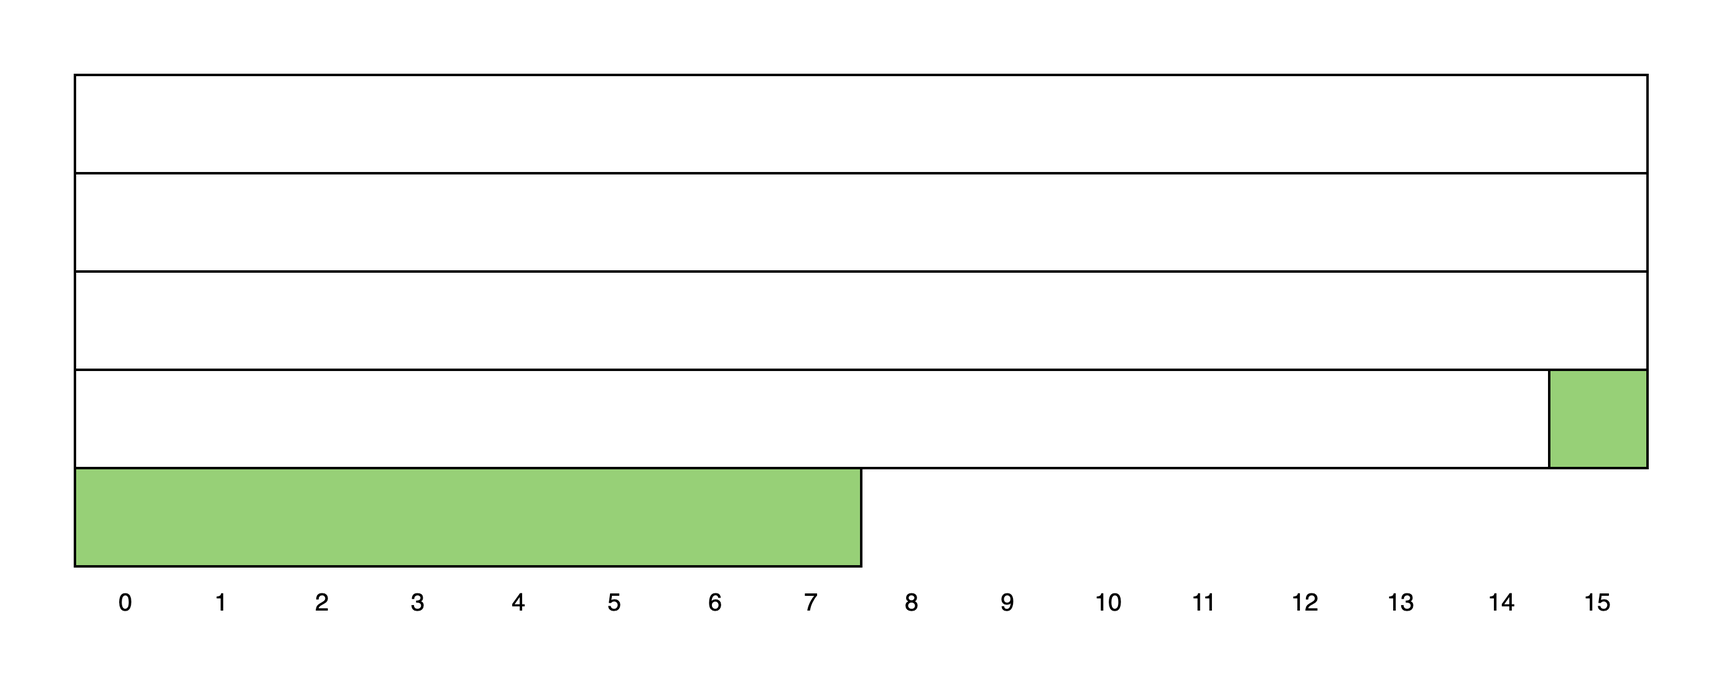
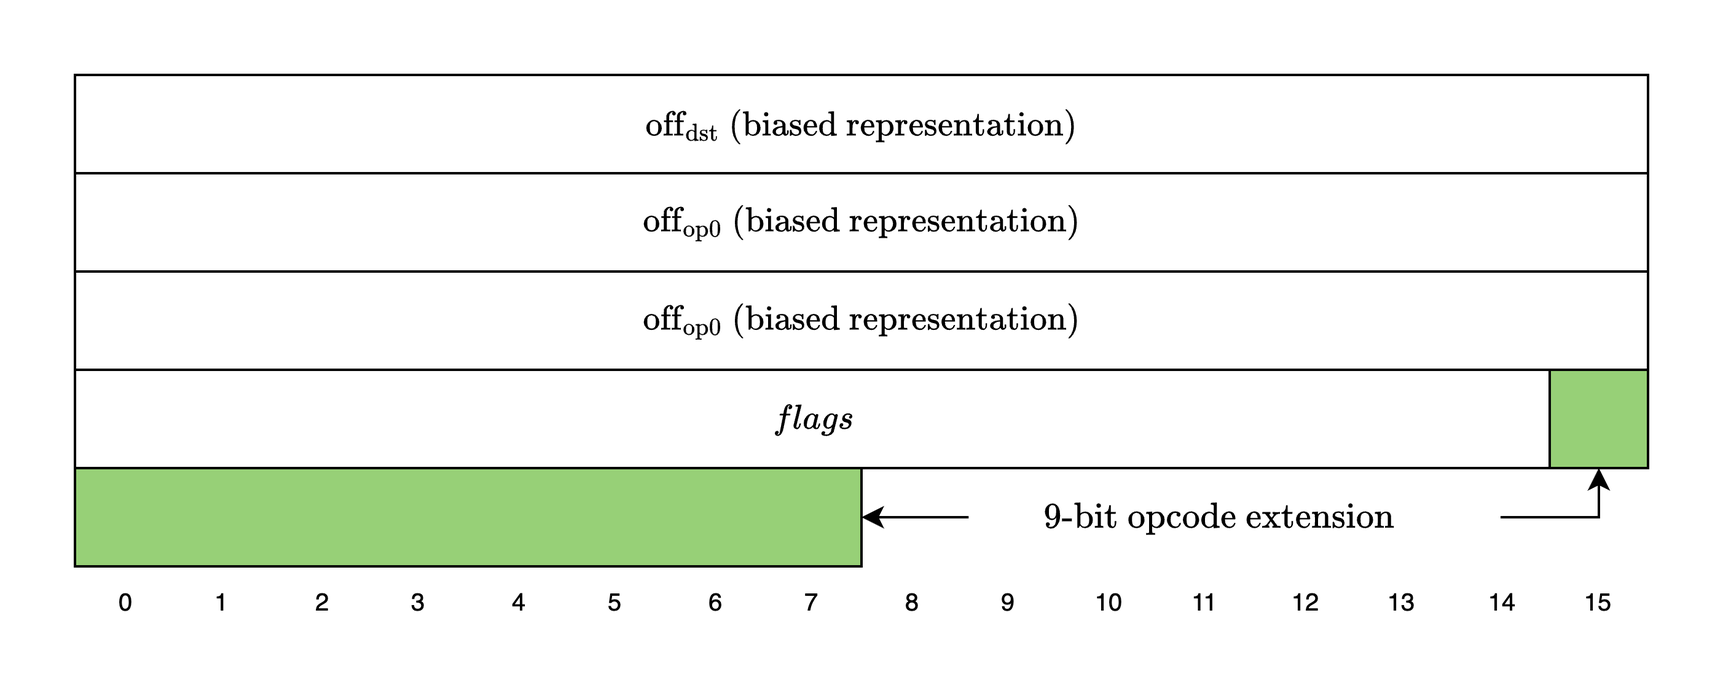
feat: add ADD Opcode walkthrough

diff --git a/src/cairo-air/main-components/index.md b/src/cairo-air/main-components/index.md
@@ -3,64 +3,80 @@
 Now that we have a basic understanding of how Cairo works and the basic building blocks that are used to build the Cairo AIR, let's take a look at the main components of the Cairo AIR.
 
 ```admonish
-For readers who are unfamiliar with the concepts of components and lookups, we suggest going over [this section](../../air-development/components/index.md) of the book.
+For readers who are unfamiliar with the concepts of components and lookups, we suggest going over the [Components](../../air-development/components/index.md) section of the book.
 ```
 
 ## Fetch, Decode, Execute
 
-Cairo follows the common CPU architecture of fetching, decoding, and executing an instruction in a single CPU step. Thus, to prove the correctness of the execution of a Cairo program, the Cairo AIR can write the results of fetching, decoding, and executing an instruction at every CPU step into a trace and prove that the constraints over the trace are consistent with the semantics of Cairo.
+Cairo follows the common CPU architecture of fetching, decoding, and executing an instruction in a single CPU step. Below is a high-level diagram of what a single CPU step looks like in Cairo.
 
 <figure id="fig-cairo-air-fetch-decode-execute" style="text-align: center;">
     <img src="./fetch-decode-execute.png" width="100%" />
     <figcaption><center><span style="font-size: 0.9em">Figure 1: A single CPU step in Cairo</span></center></figcaption>
 </figure>
 
+Since we need to prove the correctness of all CPU steps, the Cairo AIR will write the results of fetching, decoding, and executing an instruction at every CPU step into a trace and prove that the constraints over the trace are done correctly, i.e. consistent with the semantics of Cairo.
+
 Let's keep this in mind while we go over the main components of the Cairo AIR.
 
-## Memory Component
+## 1. Memory Component
 
 The first component we need is a `Memory` component, which implements the non-deterministic read-only memory model of Cairo.
 
 In Cairo AIR, instead of mapping the memory address to a value directly, we first map the `address` to an `id` and then map the `id` to a `value`. This is done to classify the memory values into 2 groups: `Small` and `Big`, where `Small` values are 72-bit integers and `Big` values are 252-bit integers. As many memory values do not exceed the `Small` size, this allows us to save cost on unnecessary padding.
 
-As a result, the `Memory` component is actually 2 components, `MemoryAddressToId` and `MemoryIdToValue`.
+As a result, the `Memory` component is actually 2 components: `MemoryAddressToId` and `MemoryIdToValue`.
 
-The constraint for the `Memory` component is as follows:
+The constraints for the `MemoryAddressToId` and `MemoryIdToValue` components are as follows:
 
 1. An `address` must appear once and only once in the `MemoryAddressToId` component
-2. Each `address` is mapped to a unique `id`
+2. Each `(address, id, value)` tuple must be unique
 
-[TODO: revisit this]
+The first constraint is implemented by using a preprocessed column that contains the sequence of numbers `[0, MAX_ADDRESS)` and using this as the address values (in the actual code, memory address starts at 1, so we need to add 1 to the sequence column).
 
-The way the first constraint is implemented is by using a preprocessed column that contains the sequence of numbers `[0, MAX_ADDRESS)` and using this as the address values (in the actual code, memory address starts at 1, so we need to add 1 to the sequence).
+The second constraint is guaranteed because the `address` value is always unique.
 
-The second constraint works in a similar way. An `id` is a 31-bit integer that is incremented by 1 from 0 whenever there is a unique memory access. For example, if the addresses `[5, 1523, 142]` were accessed in that order, the id for those addresses will be `(5, 0)`, `(1523, 1)`, and `(142, 2)`. In case the value of that address is a `Big` value, the MSB of the 31-bit integer is switched to 1. Since the `id` also uses the sequence of values `[0, NUM_SMALL_VALUES_ACCESSED)` and `[2^30, NUM_BIG_VALUES_ACCESSED)`, we can use the preprocessed column as the `id` values.
+```admonish
+A short explainer on how the `id` value is computed:
 
-## VerifyInstruction Component
+The `id` value is a 31-bit integer that is incremented by 1 from 0 whenever there is a unique memory access. For example, if the addresses `[5, 1523, 142]` were accessed in that order, the id for those addresses will be `(5, 0)`, `(1523, 1)`, and `(142, 2)`.
 
-The `VerifyInstruction` component is responsible for accessing the instruction from the `Memory` component and decomposing the retrieved value. As mentioned in the [Felt252 to M31](../basic-building-blocks/index.md#felt252-to-m31) section, a 252-bit integer is stored as 28 9-bit limbs, so we need to decompose the limbs and concatenate them to get the values we need. For example, in order to get the 3 16-bit offset values, we need to decompose the first 6 limbs into `[9, [7, 2], [9], [5, 4], [9], [3, 6]]` and concatenate them as the following: `[[9, 7], [2, 9, 5], [4, 9, 3]]`. Then, the remaining `6` and the next limb will correspond to the 15-bit flags, and the next (8th) limb will be the opcode extension value. At the end, we will have decomposed the instruction value into 3 16-bit offsets, 2 chunks of flags, and a 9-bit opcode extension.
+Since an `id` value needs to include information as to whether the corresponding `value` is `Small` or `Big`, we use the MSB as a flag (0 for `Small` and 1 for `Big`). Thus, an `id` value that corresponds to a `Small` value can occupy the space `[0, 2^30)`, while an `id` value that corresponds to a `Big` value can occupy the space `[2^30, 2^31)`.
 
-Note that the decomposition will be constrained by range-checking that each of the integers in their corresponding range.
+In reality, the size of each table will be `[0, NUM_SMALL_VALUES_ACCESSED)` and `[2^30, 2^30 + NUM_BIG_VALUES_ACCESSED)`, where `NUM_SMALL_VALUES_ACCESSED` and `NUM_BIG_VALUES_ACCESSED` are values that are provided by the prover. To make sure that the `id` values are created correctly, we can use the preprocessed column as the `id` values.
+```
 
-## Opcode Component
+## 2. VerifyInstruction Component
+
+The `VerifyInstruction` component is responsible for accessing the instruction from the `Memory` component and decomposing the retrieved value. As mentioned in the [Felt252 to M31](../basic-building-blocks/index.md#felt252-to-m31) section, a 252-bit integer is stored as 28 9-bit limbs, so we need to decompose the limbs and concatenate them to get the values we need. For example, in order to get the 3 16-bit offset values, we need to decompose the first 6 limbs into `[9, [7, 2], [9], [5, 4], [9], [3, 6]]` and concatenate them as the following: `[[9, 7], [2, 9, 5], [4, 9, 3]]`. Then, the remaining 6-bit value and the next limb will correspond to the 15-bit flags, and the next (8th) limb will be the opcode extension value. The other 20 limbs should all be zeros. At the end, we will have decomposed the instruction value into 3 16-bit offsets, 2 chunks of flags, and a 9-bit opcode extension.
+
+Note that the decomposition will be constrained by range-checking that each of the integers are within their corresponding range.
+
+## 3. Opcode Component
 
 Since every Cairo instruction can be mapped to a specific `Opcode`, we can check that a Cairo instruction is executed by checking that the corresponding `Opcode` component was executed correctly. You can think of the `Opcode` component as the main component that uses the `VerifyInstruction` and `Memory` components.
 
 We define a single `Opcode` component for each predefined opcode and also a `GenericOpcode` component, which will be used for all instructions that do not map to any of the predefined opcodes.
 
-The following is a list of constraints that the `VerifyInstruction` component needs to satisfy:
+The following is a list of constraints that the `Opcode` component needs to verify:
 
-1. verifies that the offsets and flag values are correct using the `VerifyInstruction` component.
-2. verifies that the instruction is correctly mapped to the current `Opcode` component using the flags.
-3. verifies that the operand values `op0`, `op1`, and `dst` computed with the registers and the offsets are correct using the `Memory` component.
-4. verifies that the operation for the current `Opcode` component is done correctly.
-5. verifies that the state transition of the 3 registers (`pc`, `ap`, `fp`) is done correctly using the flags.
+1. the offsets and flag values are correct using the `VerifyInstruction` component.
+2. the instruction is correctly mapped to the current `Opcode` component using the flags.
+3. the operand values `op0`, `op1`, and `dst` computed with the registers and the offsets are correct using the `Memory` component.
+4. the operation for the current `Opcode` component is done correctly.
+5. the state transition of the 3 registers (`pc`, `ap`, `fp`) is done correctly using the flags.
 
 Of these constraints, the numbers 2 and 4 are self-contained, as in they do not require any other components to be verified. We will explore how the remaining 3 are verified using lookups between the different components.
 
 ## Bringing It All Together
 
-The following figure shows how each component is connected to each other using lookups. If we look at the right-hand side first, we can see that this side shows the main components of the Cairo AIR. The boxes in the components correspond to lookups added to each component and the boxes with the same fill color correspond to lookups to the same values. Lookups that are added to the claimed sum have blue edges and the ones that are subtracted from the claimed sum have red edges. On the left-hand side, we can see lookups that that the prover provides as part of the proof and therefore the verifier can compute the lookup values themselves and add to the total sum. The ultimate goal is to make the sum of all the lookups to equal to zero.
+The following figure shows how each of the main components are connected to each other using lookups.
+
+If we look at the right-hand side first, we can see that this side shows the main components of the Cairo AIR. The boxes in each component correspond to lookups in each component and the boxes with the same fill color correspond to lookups to the same values. Also, some lookups are yielded (i.e. subtracted), while others are used (i.e. added), and the ones that are yielded have red edges, while the ones that are used have blue edges.
+
+On the left-hand side, we can see lookups that are computed directly by the verifier from data provided by the prover as part of the proof.
+
+Each of the components will have a **claimed sum** value that corresponds to the sum of all the lookups in the component. These claimed sums will be provided by the prover as part of the proof and the verifier will add them together along with the lookups on the left-hand side. If the total sum is zero, the verifier will be convinced that the proof is valid.
 
 <figure id="fig-cairo-air-main-components" style="text-align: center;">
     <img src="./main-components.png" width="100%" />
@@ -69,14 +85,20 @@ The following figure shows how each component is connected to each other using l
 
 ### Memory Lookups
 
-The memory lookups correspond to looking up the `(address, id)` and `(id, value)` pairs. In the `Memory` component, each of the lookups are multiplied with a witness value `mult`, which indicates the amount of times each memory address was accessed. Since the memory accesses are **added** to the total sum and the same amount is **subtracted** from the total sum in the `Memory` component, the total sum for memory lookups should equal zero.
+The memory lookups correspond to looking up the `(address, id)` and `(id, value)` pairs. In the `Memory` component, each of the lookups are multiplied with a witness value `mult`, which indicates the amount of times each memory address was accessed. Since the memory accesses are added to the total sum and the same amount is subtracted from the total sum in the `Memory` component, the total sum for memory lookups should equal zero.
 
-Note that the verifier also adds the lookups for the Cairo program, which is necessary to ensure that the correct program is actually stored in memory and is properly executed.
+Note that the verifier also adds lookups for the Cairo program, which is necessary to ensure that the correct program is actually stored in memory and is properly executed.
 
 ### Instruction Lookups
 
-Once the `VerifyInstruction` component retrieves the instruction value using the `(pc_addr, pc_id)` and `(pc_id, pc_val)` lookups, it subtracts the lookup of the tuple `(pc, dst_off, op0_off, op1_off, flags1, flags2, opcode_extension)`, which are the decomposed values of the instruction. The reason this lookup also has a `mult` witness is because the `VerifyInstruction` component has a single row for each unique `pc` value. Thus, if the same `pc` value is invoked multiple times throughout the program, the tuple should be added multiple times to the total sum.
+Once the `VerifyInstruction` component retrieves the instruction value using the `(pc_addr, pc_id)` and `(pc_id, pc_val)` lookups, it subtracts the lookup of the tuple `(pc, dst_off, op0_off, op1_off, flags1, flags2, opcode_extension)`, which are the decomposed values of the instruction. The reason this lookup also has a `mult` witness is because the `VerifyInstruction` component has a single row for each unique `pc` value (i.e. the Cairo instruction stored at the `pc` address). Thus, the same `pc` value can be invoked multiple times throughout the program, and the `mult` value represents the number of times the same `pc` value is invoked.
+
+Since the same tuple lookup is added to the total sum whenever the `Opcode` component uses the same instruction, the total sum for instruction lookups should equal zero.
 
 ### Register Lookups
 
-🚧
+After computing over the operands, a Cairo instruction updates the register values based on the values in the flags. In an `Opcode` component, this update logic is verified using the columns `pc`, `ap`, `fp`, `new_pc`, `new_ap`, `new_fp` and constraining the values with the flags.
+
+In addition to checking that each state transition is done correctly, we also need to make sure that the initial register values (i.e. before running the program) and the final register values (i.e. after running the program) satisfy the Cairo semantics. For example, the final pc must point to an instruction that runs the `JUMPREL 0` opcode, which is an infinite loop (you can check the rest of the semantics enforced [here](https://github.com/starkware-libs/stwo-cairo/blob/95019d029fdd164091f9d17a12cb9288215fb9c3/stwo_cairo_verifier/crates/cairo_air/src/lib.cairo#L264)).
+
+Once we have verified that the initial and final register values are correct and each state transition is done correctly, we do the final check that the register values are all connected together, as in the register values used by the second instruction is the same as the new register values of the first instruction and so on. We check this by adding the lookup of the `(pc, ap, fp)` tuple and subtracting the lookup of the `(new_pc, new_ap, new_fp)` tuple for each `Opcode` row. This way, when add up all the lookups, the total sum for register lookups should be equal to `(init_pc, init_ap, init_fp) - (final_pc, final_ap, final_fp)`. Thus, the verifier can compute the lookups of the initial and final register values themselves, then subtract the first and add the second, and check that the total sum is zero.

diff --git a/src/cairo-air/cairo/index.md b/src/cairo-air/cairo/index.md
@@ -1,28 +1,28 @@
 # Cairo
 
-Let's start by understanding how Cairo works. If you would like to learn more formally about Cairo, you can refer to the original [Cairo paper](https://eprint.iacr.org/2021/1063.pdf).
+```admonish
+This is an informal overview of Cairo. For a more formal explanation, please refer to the original [Cairo paper](https://eprint.iacr.org/2021/1063.pdf).
+```
 
-Essentially, Cairo is a CPU architecture that is Turing-complete and is specifically designed so that it can also be used to create efficient proofs of execution using STARKs. In particular, Cairo uses the read-only memory model instead of the more common read-write memory model and only uses a relatively small number of registers.
+Let's start by understanding how Cairo works. Essentially, Cairo is a CPU architecture that is Turing-complete and is specifically designed so that it can also be used to create efficient proofs of execution using STARKs. In particular, Cairo uses the read-only memory model instead of the more common read-write memory model and does not use any general-purpose registers.
 
 ## Non-Deterministic Read-Only Memory
 
-A read-only memory model is a memory model where each address in the memory can only have a single value throughout the execution of the program. This is in contrast to the more common read-write memory model where an address can have multiple values at different points in time.
+A read-only memory model is a memory model where each address in the memory can only have a single value throughout the execution of the program. This is in contrast to the more common read-write memory model where an address can have multiple values at different points during the execution of the program.
 
-The memory is also non-deterministic, which means that the prover provides the values of the memory cells as a witness and does not provide any additional constraints.
+The memory is also non-deterministic, which means that the prover provides the values of the memory cells as witness values and they do not need to be constrained other than that each address can only have a single value throughout the execution of the program.
 
 ## Registers
 
-In physical CPUs, accessing the memory is expensive compared to accessing registers due to physical proximity. This is why instructions typically operate over registers rather than directly over the memory cells. Since accessing the memory and accessing registers is the same in Cairo, however, Cairo instructions operate directly over memory cells. Thus, the 3 registers used in Cairo do not store arbitrary values but rather pointers to the memory cells:
+In physical CPUs, accessing the memory is expensive compared to accessing registers due to physical proximity. This is why instructions typically operate over registers rather than directly over the memory cells. Since accessing the memory and accessing registers is the same in Cairo, however, Cairo instructions operate directly over memory cells. Thus, the 3 registers used in Cairo are not used to store instructions or operand values like physical CPUs, but rather pointers to the memory cells where the instructions and operands are stored:
 
 - `pc` is the **program counter**, which points to the current Cairo instruction
 - `ap` is the **allocation pointer**, which points to the current available memory address
 - `fp` is the **frame pointer**, which points to the current frame in the "call stack"
 
-[TODO: add a simple example]
-
 ## Cairo Instructions
 
-Let's see what a Cairo instruction looks like.
+Let's now see what a Cairo instruction looks like.
 
 <figure id="fig-cairo-instruction" style="text-align: center;">
     <img src="./cairo-instruction.png" width="100%" />
@@ -31,26 +31,32 @@ Let's see what a Cairo instruction looks like.
 
 As the figure above from the [Cairo paper](https://eprint.iacr.org/2021/1063.pdf) shows, an instruction is made up of 64 bits, where the first 3 16-bit integers are signed offsets to the 3 operands `dst`, `op0`, and `op1`.
 
-The next 15 bits are flags, where the `dst_reg` and `op0_reg` indicates whether to use the `ap` or the `fp` register value as the base value for the `dst` and the `op0` operands, respectively. The `op1_src` flag support 4 different values as the base values for the `op1` operand: `op0`, `pc`, `fp`, and `ap`. The `res_logic` flag indicates how to compute the operands: `op1`, `op0 + op1`, or `op0 * op1`. The `pc_update` and `ap_update` flags show how to update the `pc` and `ap` registers, respectively, after computing the operands and the `opcode` flag indicates whether this instruction belongs to a predefined opcode (e.g. `CALL`, `RET`, `ASSERT_EQ`) or not and also defines how the `ap` and `fp` registers should be updated.
+The next 15 bits are flags, where the `dst_reg` and `op0_reg` 1-bit flags indicate whether to use the `ap` or the `fp` register value as the base value for the `dst` and the `op0` operands. The `op1_src` flag supports a wider range of base values for the `op1` operand: `op0`, `pc`, `fp`, and `ap`. The `res_logic` flag indicates how to compute the `res` operand: `op1`, `op0 + op1`, or `op0 * op1`. The `pc_update` and `ap_update` flags show how to update the `pc` and `ap` registers after computing the operands and the `opcode` flag indicates whether this instruction belongs to a predefined opcode (e.g. `CALL`, `RET`, `ASSERT_EQ`) or not and also defines how the `ap` and `fp` registers should be updated.
 
-Finally the last bit is fixed to 0, but as we will see later, this design is modified in the current version of Cairo to support opcode extensions.
+```admonish
+For a more detailed explanation of the flags, please refer to Section 4.5 of the [Cairo paper](https://eprint.iacr.org/2021/1063.pdf).
+```
 
-[TODO: add a simple example]
+Finally the last bit is fixed to 0, but as we will see in the next section, this design is modified in the current version of Cairo to support opcode extensions.
 
 ### Opcodes and Opcode Extensions
 
-In Cairo, an opcode refers to what the instruction should do. Since there is a strict set of constraints that an instruction should follow, every instruction can be seen as a _generic_ opcode, but Cairo also defines specific opcodes for commonly used functions (e.g. `ADD`, `MUL`, `JUMP`, `CALL`, etc).
+In Cairo, an **opcode** refers to what the instruction should do. Cairo defines a set of common CPU operations as specific opcodes (e.g. `ADD`, `MUL`, `JUMP`, `CALL`), but for Stwo, it also defines a new set of opcodes that are used to improve the performance of heavy computation such as Blake2s hash and QM31 addition and multiplication.
 
-In addition to the opcodes defined in the Cairo paper, however, Cairo now also defines a new set of opcodes using **opcode extension**. As you can see in the figure below, this is done by extending the size of an instruction from 64 bits to 72 bits and using the value of the last 9 bits.
+Since the current 64-bit instruction structure is not flexible enough to support this, Cairo now extends the instruction size to 72 bits and uses the last 9 bits as the **opcode extension** value.
 
 <figure id="fig-opcode-extension" style="text-align: center;">
     <img src="./opcode-extension.png" width="100%" />
-    <figcaption><center><span style="font-size: 0.9em">Figure 2: Opcode extension bits</span></center></figcaption>
+    <figcaption><center><span style="font-size: 0.9em">Figure 2: New instruction format with opcode extension</span></center></figcaption>
 </figure>
 
-In the previous section, we mentioned that the last bit of a Cairo instruction was fixed to 0, but this is no longer the case. If the value of the opcode extension is 0, then we use the original set of opcodes, but if it is not, we check if it matches to any of the new extended opcodes. As of [this commit](https://github.com/starkware-libs/stwo-cairo/tree/b712c77887f8f8ce0d39a8a9741221c89846836e), the following opcode extension values are supported:
+As of [this commit](https://github.com/starkware-libs/stwo-cairo/blob/b712c77887f8f8ce0d39a8a9741221c89846836e/stwo_cairo_prover/crates/adapter/src/decode.rs#L4), the following opcode extension values are supported:
 
 - `0`: Stone (original opcodes)
 - `1`: Blake
 - `2`: BlakeFinalize
 - `3`: QM31Operation
+
+```admonish
+Even if the instruction does not belong to any predefined set of opcodes, it will be considered a valid opcode as long as it adheres to the state transition function defined in Section 4.5 of the [Cairo paper](https://eprint.iacr.org/2021/1063.pdf). In Stwo Cairo, this is referred to as a _generic opcode_.
+```

diff --git a/src/cairo-air/add-opcode/index.md b/src/cairo-air/add-opcode/index.md
@@ -1,3 +1,128 @@
 # ADD Opcode Walkthrough
 
-🚧
+To better understand how `Opcode` componenents work, let's walk through the implementation of the `AddOpcode` component.
+
+<figure id="fig-add-opcode-columns" style="text-align: center;">
+    <img src="./add-opcode-columns.png" width="100%" />
+    <figcaption><center><span style="font-size: 0.9em">Figure 1: The `AddOpcode` columns</span></center></figcaption>
+</figure>
+
+Above is the list of all the columns that are used in the `AddOpcode` component. Note that `dst_val`, `op0_val`, and `op1_val` columns are actually 28 columns to support 28 9-bit limbs but we show them as single columns for brevity.
+
+To reiterate what an `Opcode` component does from the [Main Components](../main-components/index.md#opcode-component) section, it verifies the following:
+
+1. the offsets and flag values are correct using the `VerifyInstruction` component.
+2. the instruction is correctly mapped to the current `Opcode` component using the flags.
+3. the operand values `op0`, `op1`, and `dst` computed with the registers and the offsets are correct using the `Memory` component.
+4. the operation for the current `Opcode` component is done correctly.
+5. the state transition of the 3 registers (`pc`, `ap`, `fp`) is done correctly using the flags.
+
+```admonish exercise
+An instruction should contain 15 bits of flags but only 5 bits are represented in the `AddOpcode` columns. Can you see why?
+```
+
+```admonish hint
+Check out how a Cairo instruction is pattern-matched to an `ADD` opcode [here](https://github.com/starkware-libs/stwo-cairo/blob/04f142e0376e2a0e797cdb64973449aa3e58a18f/stwo_cairo_prover/crates/adapter/src/opcodes.rs#L349).
+```
+
+```admonish hint
+Check out how the decomposition of the flags is verified [here](https://github.com/starkware-libs/stwo-cairo/blob/04f142e0376e2a0e797cdb64973449aa3e58a18f/stwo_cairo_prover/crates/cairo-air/src/components/subroutines/decode_instruction_bc3cd.rs#L59).
+```
+
+Numbers 1 and 3 should be familiar as we already covered them in the [Main Components](../main-components/index.md#opcode-component) section. As for number 2, you can check the specs for the `ADD` opcode [here](https://github.com/starkware-libs/stwo-cairo/blob/04f142e0376e2a0e797cdb64973449aa3e58a18f/stwo_cairo_prover/crates/adapter/src/opcodes.rs#L349) and for number 5, the specs for a valid state transition can be found in Section 4.5 of the [Cairo paper](https://eprint.iacr.org/2021/1063.pdf).
+
+In this section, we will focus on how number 4 is implemented.
+
+## Adding Two 252-Bit Integers
+
+Assuming that the operands `op0`, `op1`, and `dst` are correctly accessed from the `Memory` table, we now check that the addition of two 252-bit integers is done correctly, i.e. `op0 + op1 = dst`. As noted in the [Felt252 to M31](../basic-building-blocks/index.md#felt252-to-m31) section, a 252-bit integer is stored as 28 9-bit limbs, so we need to check addition for each of the 28 limbs.
+
+We will incrementally build up to the final constraint.
+
+### Limb-wise Addition and Carry
+
+To verify that the two sets of limbs are correctly added, we need to check limb-wise addition. Since each limb can create a carry, however, we also need to add the carry from the previous limb, except for the first limb. Thus, the constraint will look something like this:
+
+```
+carry_limb_1 = (op0[0] + op1[0] - dst[0]) / 2^9
+carry_limb_1 * (carry_limb_1 - 1) = 0
+
+carry_limb_2 = (op0[1] + op1[1] + carry_limb_1 - dst[1]) / 2^9
+carry_limb_2 * (carry_limb_2 - 1) = 0
+
+...
+
+op0[27] + op1[27] + carry_limb_27 - dst[27] = 0
+```
+
+We divide `op0[0] + op1[0] - dst[0]` by `2^9` since `op0[0] + op1[0] - dst[0]` should either be `2^9` (if carry exists) or `0` (if carry doesn't exist) and dividing it by `2^9` will result in `1` or `0`, respectively. Then, to check that the carry is either `0` or `1`, we create the constraint `carry_limb_0 * (carry_limb_0 - 1) = 0`. For the final limb, we simply check that the addition is correct.
+
+### Handling Overflowing the 252-bit Prime Field
+
+In addition, we also need to take into account the addition overflowing the 252-bit prime field `P` (i.e. `op0 + op1 = dst + P`). To check this, we introduce a witness variable `sub_p_bit`, which is a 1-bit value that can be set to 1 if there is indeed an overflow. Note that since `P = 2^251 + 17 * 2^192 + 1`, we only need to subtract in the 3 limbs where `P` has a non-zero limb: `0`, `22`, `27`.
+
+Now let's revisit the constraints:
+
+```
+sub_p_bit * (sub_p_bit - 1) = 0
+
+carry_limb_1 = (op0[0] + op1[0] - dst[0] - sub_p_bit) / 2^9
+carry_limb_1 * (carry_limb_1 - 1) = 0
+
+...
+
+carry_limb_23 = (op0[22] + op1[22] + carry_limb_22 - dst[22] - sub_p_bit * 136) / 2^9
+carry_limb_23 * (carry_limb_23 - 1) = 0
+
+...
+
+op0[27] + op1[27] + carry_limb_27 - dst[27] - sub_p_bit * 256 = 0
+```
+
+First, we verify that `sub_p_bit` is indeed a bit. Then, we subtract `sub_p_bit` from the first limb, `sub_p_bit * 136` from the 22nd limb, and `sub_p_bit * 256` from the 27th limb. (Note that `136` and `256` are the values of `P` in the 22nd and 27th limbs, respectively.)
+
+A caveat of this approach is that subtracting by `sub_p_bit` can introduce an underflow, i.e. `(op0[0] + op1[0] - dst[0] - sub_p_bit) / 2^9 = -1`. This means that `carry_limb_0` can also be `-1` and not just `0` or `1`. Thus, we need to update the constraint for all carries to the following:
+
+```
+...
+
+carry_limb_1 * (carry_limb_1 - 1) * (carry_limb_1 + 1) = 0
+
+...
+```
+
+### Optimization
+
+If we want to optimize the number of constraints, we can combine all the constraints for computing the sum into a single constraint. Naively checking that `carry_limb_1 = (op0[0] + op1[0] - dst[0] - sub_p_bit) / 2^9` means that we allocate a column for `carry_limb_1`. However, we can keep `carry_limb_1` as an intermediate value and include the equation when computing the next carry. For example, the second limb carry will be computed as follows:
+
+```
+carry_limb_2 = (op0[1] + op1[1] + ((op0[0] + op1[0] - dst[0] - sub_p_bit) / 2^9) - dst[1]) / 2^9
+```
+
+This way, we do not have to allocate any extra columns for the carries, and we can go on until the last limb, where we check that the giant equation is correct.
+
+This is possible because the computation does not involve any multiplication of witness values, so the constraint does not blow up in degree.
+
+### Final Constraint
+
+One last thing to note is that in the implementation, we change the division by `2^9` to a multiplication by `2^22`, which is equivalent in the M31 field since `2^9` and `2^22` are multiplicative inverses of each other, i.e. `2^9 * 2^22 = 1 mod 2^31-1`.
+
+So the final constraint will look like this:
+
+```
+sub_p_bit * (sub_p_bit - 1) = 0
+
+carry_limb_1 = (op0[0] + op1[0] - dst[0] - sub_p_bit) * 2^22 // intermediate representation
+carry_limb_1 * (carry_limb_1 - 1) * (carry_limb_1 + 1) = 0
+
+...
+
+carry_limb_27 = (op0[26] + op1[26] + carry_limb_26 - dst[26]) * 2^22 // intermediate representation
+carry_limb_27 * (carry_limb_27 - 1) * (carry_limb_27 + 1) = 0
+
+op0[27] + op1[27] + carry_limb_27 - dst[27] - sub_p_bit * 256 = 0
+```
+
+## Enabler Column
+
+Finally, we need to introduce the last column in the `AddOpcode` component, the `enabler` column. As the name suggests, this column is used to either enable or disable the constraint for the current row. It is used for dummy rows that are added to the end of the table to make the number of rows the nearest power of 2. In other words, it is set to `1` for all valid `ADD` opcode calls and `0` for all the dummy rows.

diff --git a/src/cairo-air/basic-building-blocks/index.md b/src/cairo-air/basic-building-blocks/index.md
@@ -4,4 +4,10 @@ This section will go over the basic building blocks that are used to build the C
 
 ## Felt252 to M31
 
-Cairo works over the prime field \\(P = 2^{251} + 17 \cdot 2^{192} + 1\\), while Stwo works over the prime field \\(M31 = 2^{31} - 1\\). Thus, in order to represent the execution of Cairo with Stwo, we need to decompose the 252-bit integers into 31-bit integers. The Cairo AIR chooses to use the 9-bit decomposition, so a single 252-bit integer will result in 28 9-bit limbs. To ensure that the decomposition is correct, we also need to verify that each limb is in the range \\(0 \leq \text{limb} < 2^{31}\\).
+Cairo works over the prime field \\(P = 2^{251} + 17 \cdot 2^{192} + 1\\), while Stwo works over the prime field \\(M31 = 2^{31} - 1\\). Thus, in order to represent the execution of Cairo with Stwo, we need to decompose the 252-bit integers into 31-bit integers. The Cairo AIR chooses to use the 9-bit decomposition, so a single 252-bit integer will result in 28 9-bit limbs.
+
+## Range Checks
+
+Range-checks are very commonly used in the Cairo AIR. They are used to ensure that the values of the witness values are within a certain range, most commonly within a certain bit length. For example, in the [Felt252 to M31](../basic-building-blocks/index.md#felt252-to-m31) section, we saw that a 252-bit integer is decomposed into 28 9-bit limbs, so we need to verify that each limb is in the range \\(0 \leq \text{limb} < 2^{9}\\).
+
+This is done by using a preprocessed column that contains the entire range of possible values for the bit length. For example, for a 9-bit range check, the column will contain the values from 0 to \\(2^9 - 1\\). We also have another column that contains the number of times the range-check was invoked for each valid value and we use lookups to check that each range-check is valid. For a more practical example, please refer to the [Static Lookups](../../air-development/static-lookups/index.md) section.

diff --git a/src/cairo-air/index.md b/src/cairo-air/index.md
@@ -1,3 +1,3 @@
 # Cairo AIR
 
-The following sections will go over how Cairo (referring to the CairoVM, not to be confused with the [Cairo programming language](https://www.starknet.io/cairo-book/)) is expressed as an AIR and proven using Stwo. This explanation is based on [this commit](https://github.com/starkware-libs/stwo-cairo/tree/b712c77887f8f8ce0d39a8a9741221c89846836e) of the Stwo Cairo repository.
+The following sections will go over how Cairo is expressed as an AIR and proven using Stwo. The explanation is based on [this commit](https://github.com/starkware-libs/stwo-cairo/tree/b712c77887f8f8ce0d39a8a9741221c89846836e) of the Stwo Cairo repository.
